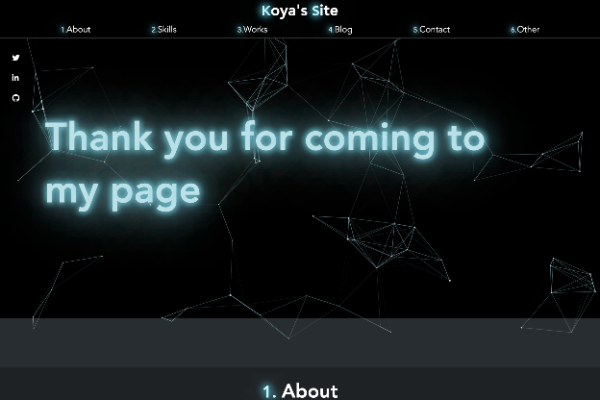
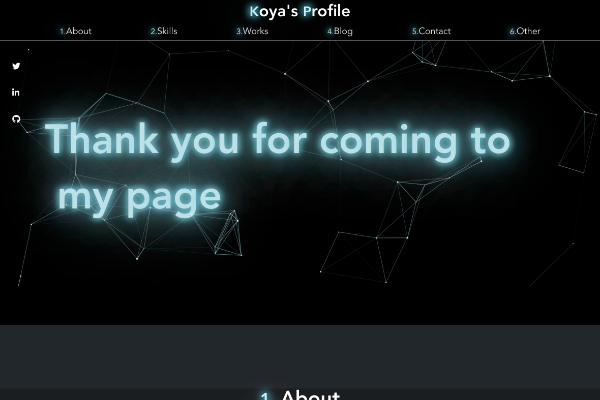
works fix

diff --git a/src/components/Leftside.vue b/src/components/Leftside.vue
@@ -1,8 +1,8 @@
 <template>
 <div class="side-menubar">
   <ul>
-    <li><a href="https://twitter.com/TeRPayaujh6NNrn" target="blank"><font-awesome-icon class="fa-icon" :icon="['fab', 'twitter']"/></a></li>
-    <li><a href="" target="blank"><font-awesome-icon class="fa-icon" :icon="['fab', 'linkedin-in']"/></a></li>
+    <li><a href="https://twitter.com/kouya_en" target="blank"><font-awesome-icon class="fa-icon" :icon="['fab', 'twitter']"/></a></li>
+    <li><a href="https://www.linkedin.com/in/%E6%98%82%E4%B9%9F-%E6%9F%B3%E7%94%B0-b345b8206/" target="blank"><font-awesome-icon class="fa-icon" :icon="['fab', 'linkedin-in']"/></a></li>
     <li><a href="https://github.com/yanagidakouya?tab=repositories" target="blank"><font-awesome-icon class="fa-icon" :icon="['fab', 'github']"/></a></li>
     <!-- <li><a href="" target="blank"><font-awesome-icon class="fa-icon" :icon="['fab', 'twitter']"/></a></li>
     <li><a href="" target="blank"><font-awesome-icon class="fa-icon" :icon="['fab', 'twitter']"/></a></li> -->
@@ -24,8 +24,10 @@ export default {
   padding-left: 2%;
   ul{
     li{
-      padding: 10px 0;
+      padding: 10px 5px 0 0;
       a{
+        display: block;
+        padding: 10px 5px 10px 0;
         .fa-icon{
           color: #fff;
         }

diff --git a/src/components/Works.vue b/src/components/Works.vue
@@ -4,7 +4,7 @@
     <div class="work">
       <!-- ************* -->
       <div class="work-box">
-        <a nohref>
+        <a href="https://yoshiakikiki.com">
         <!-- <a href="https://yoshiakikiki.com"> -->
           <div class="work-img">
             <img src="../assets/img/yoshiaki.png" alt="コーポレートサイト">
@@ -44,24 +44,20 @@ export default {
 }
 window.addEventListener('load', () => {
 let nodes = document.getElementsByClassName('work-box')
-let height = 0
-console.log('4');
+let maxHeight = '0px'
 
 for(var i = 0; i < nodes.length; i++) {
-  console.log('5');
-  if(height < nodes[i].getBoundingClientRect().height){
-    console.log('6');
-    height = nodes[i].getBoundingClientRect().height
-    console.log('7');
+  let height = window.getComputedStyle(nodes[i]).height;
+  if(maxHeight < height){
+    maxHeight = height;
   }
 }
 for(var x = 0; x < nodes.length; x++) {
-  console.log('8');
-  nodes[x].style.height = height
-  console.log(nodes[x]);
+  // console.log('8');
+  nodes[x].style.height = maxHeight
 
 }
-console.log('9');
+// console.log('9');
 });
 </script>
 

diff --git a/src/App.vue b/src/App.vue
@@ -53,28 +53,6 @@ window.addEventListener('load', () => {
   let wh = window.innerHeight;
   let elem = document.getElementById('particles-js');
   elem.style.height = wh + 'px';
-
-
-  // *************************
-  let nodes = document.getElementsByClassName('work-box')
-  let height = 0
-  console.log('4');
-
-  for(var i = 0; i < nodes.length; i++) {
-    console.log('5');
-    if(height < nodes[i].getBoundingClientRect().height){
-      console.log('6');
-      height = nodes[i].getBoundingClientRect().height
-      console.log('7');
-    }
-  }
-  for(var x = 0; x < nodes.length; x++) {
-    console.log('8');
-    nodes[x].style.height = height
-  }
-  console.log('9');
-
-
 });
 
 

diff --git a/public/index.html b/public/index.html
@@ -6,6 +6,15 @@
     <meta name="viewport" content="width=device-width,initial-scale=1.0">
     <link rel="icon" href="<%= BASE_URL %>favicon.png">
     <title><%= htmlWebpackPlugin.options.title %></title>
+    <!-- Global site tag (gtag.js) - Google Analytics -->
+    <script async src="https://www.googletagmanager.com/gtag/js?id=G-N1CZNC4TZJ"></script>
+    <script>
+      window.dataLayer = window.dataLayer || [];
+      function gtag(){dataLayer.push(arguments);}
+      gtag('js', new Date());
+
+      gtag('config', 'G-N1CZNC4TZJ');
+    </script>
   </head>
   <body>
     <noscript>

diff --git a/src/components/Header.vue b/src/components/Header.vue
@@ -2,7 +2,7 @@
   <div class="header">
     <div class="header-inner">
       <div class="logo">
-        <h1><span class="neon-sb">K</span>oya's <span class="neon-sb">S</span>ite</h1>
+        <h1><span class="neon-sb"><span class="neon-sb">P</span>rofile</h1>
       </div>
       <div class="header-menu">
         <Nav></Nav>

diff --git a/src/components/Top.vue b/src/components/Top.vue
@@ -26,7 +26,7 @@
   text-align: left;
   .vue-typer-outer{  
     .vue-typer-inner{
-      padding: 20% 5% 20% 0;
+      padding: 20% 8% 20% 0;
       @include mq-down(){
         padding: 30% 5% 20% 0;
       }
